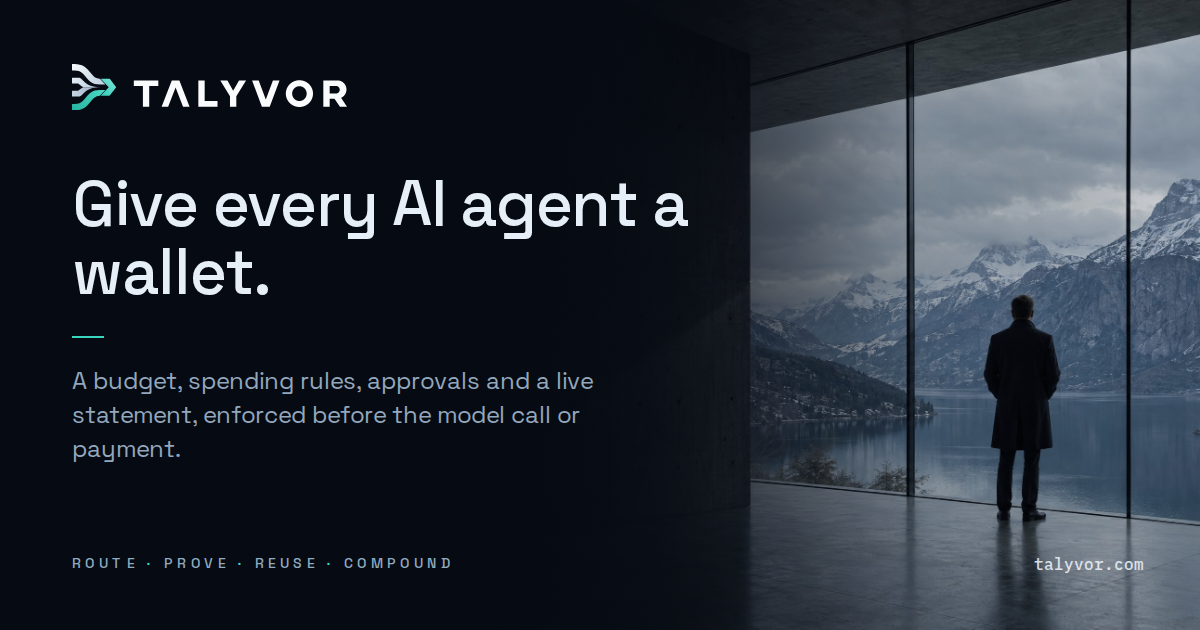
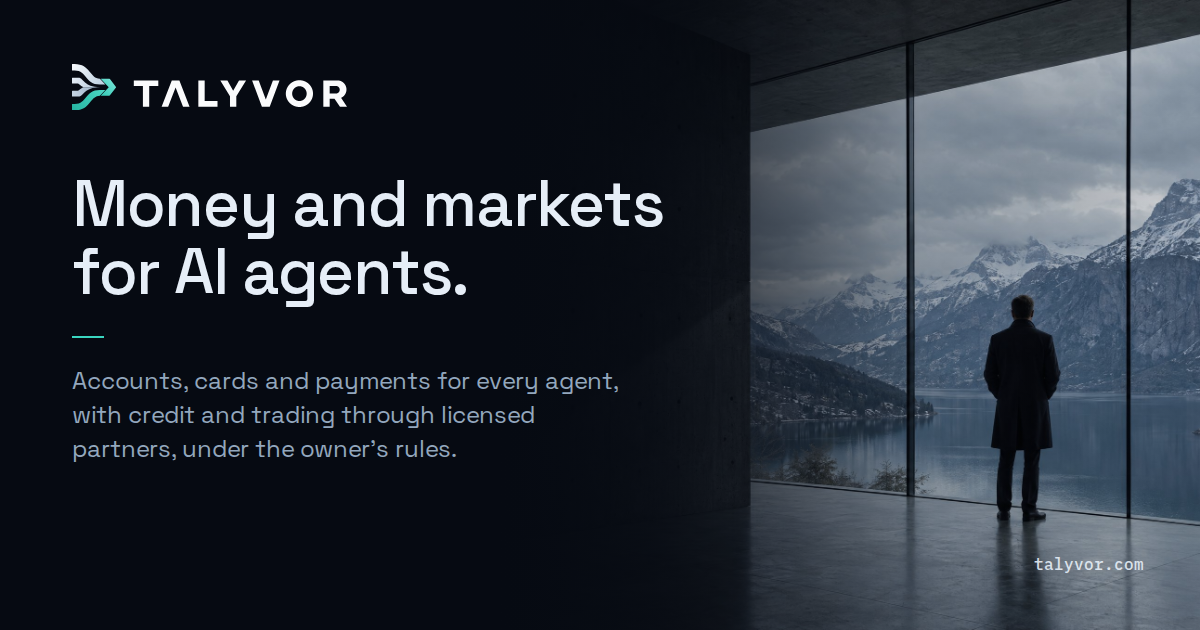
B32.68: the website, sign-in page and link preview say "money and markets for AI agents" (#511)
* B32.68: the website, sign-in page and link preview say "money and markets for AI agents"

The title, meta and social tags in index.html, HOME_TITLE, the /marketing hero (eyebrow,
H1, lede and the closed-trial paragraph), the sign-up line, the Documentation lede and the
footers of the public board, Documentation and Pricing now use Nicolai's words from the item.
og-image.png is the refreshed brand-v4 one. The unit tests and the e2e checks that pinned the
old title and H1 now pin the new ones; the e2e link-preview check also pins og:title.

FirstRunGaps' gate tests matched /closed trial/ anywhere on the page; the hero now says
"Live today in a closed trial" for everyone, so they match the gate's own sentence
("closed trial just now") instead.

* B32.68: screenshots for the pull request (removed before merge)

* B32.68: drop the pull-request screenshots from the tree

---------

diff --git a/apps/web/index.html b/apps/web/index.html
@@ -12,30 +12,30 @@
     <link rel="icon" href="/favicon.svg" type="image/svg+xml" />
     <link rel="apple-touch-icon" href="/apple-touch-icon.png" />
     <meta name="theme-color" content="#060A12" />
-    <title>Talyvor — wallets for AI agents</title>
+    <title>Talyvor — money and markets for AI agents</title>
     <!-- B28.1: what a search result and a shared link show. One static set for every address: this
          is a single-page app, so a crawler reads these bytes and never runs the script. -->
     <meta
       name="description"
-      content="Give every AI agent a wallet: a budget, spending rules, approvals, a card and a live statement, enforced before the model call or payment."
+      content="Accounts, cards and payments for AI agents, with credit and trading through licensed partners and a marketplace, all under the owner's rules."
     />
     <meta property="og:type" content="website" />
     <meta property="og:site_name" content="Talyvor" />
     <meta property="og:url" content="https://app.talyvor.com/marketing" />
-    <meta property="og:title" content="Talyvor — wallets for AI agents" />
+    <meta property="og:title" content="Talyvor — money and markets for AI agents" />
     <meta
       property="og:description"
-      content="Give every AI agent a wallet: a budget, spending rules, approvals, a card and a live statement, enforced before the model call or payment."
+      content="Accounts, cards and payments for AI agents, with credit and trading through licensed partners and a marketplace, all under the owner's rules."
     />
     <meta property="og:image" content="https://app.talyvor.com/og-image.png" />
     <meta property="og:image:width" content="1200" />
     <meta property="og:image:height" content="630" />
-    <meta property="og:image:alt" content="Talyvor — give every AI agent a wallet." />
+    <meta property="og:image:alt" content="Talyvor — money and markets for AI agents." />
     <meta name="twitter:card" content="summary_large_image" />
-    <meta name="twitter:title" content="Talyvor — wallets for AI agents" />
+    <meta name="twitter:title" content="Talyvor — money and markets for AI agents" />
     <meta
       name="twitter:description"
-      content="Give every AI agent a wallet: a budget, spending rules, approvals, a card and a live statement, enforced before the model call or payment."
+      content="Accounts, cards and payments for AI agents, with credit and trading through licensed partners and a marketplace, all under the owner's rules."
     />
     <meta name="twitter:image" content="https://app.talyvor.com/og-image.png" />
     <!-- No-flash theme: set data-theme before first paint, respecting a stored

diff --git a/apps/web/src/documentTitle.test.tsx b/apps/web/src/documentTitle.test.tsx
@@ -160,8 +160,8 @@ const NO_SUCH_PAGE = ['/admin', '/specimen', '/nonesuch', '/keys/extra', '/billi
 
 /** Public addresses and the WHOLE title each must carry. `/marketing` is the front door. */
 const PINNED_PUBLIC: ReadonlyArray<readonly [string, string]> = [
-  ['/marketing', 'Talyvor — wallets for AI agents'],
-  ['/marketing/pricing', 'Talyvor — wallets for AI agents'],
+  ['/marketing', 'Talyvor — money and markets for AI agents'],
+  ['/marketing/pricing', 'Talyvor — money and markets for AI agents'],
   ['/privacy', 'Privacy | Talyvor'],
   ['/terms', 'Terms | Talyvor'],
   ['/signup', 'Create a workspace | Talyvor'],
@@ -169,11 +169,11 @@ const PINNED_PUBLIC: ReadonlyArray<readonly [string, string]> = [
 ]
 
 describe('the format, and the brand it ends in', () => {
-  it('is "<page> | Talyvor", and the front door is the wallet line', () => {
+  it('is "<page> | Talyvor", and the front door is the money-and-markets line', () => {
     // Hardcoded on both sides. A guard that builds its expectation from the constant it is
     // checking passes for every value of that constant.
     expect(documentTitle('Ledger')).toBe('Ledger | Talyvor')
-    expect(documentTitle(null)).toBe('Talyvor — wallets for AI agents')
+    expect(documentTitle(null)).toBe('Talyvor — money and markets for AI agents')
     expect(BRAND).toBe('Talyvor')
   })
 
@@ -193,9 +193,9 @@ describe('the format, and the brand it ends in', () => {
     const tag = (attr: 'name' | 'property', key: string) =>
       new RegExp(`<meta\\s+${attr}="${key}"\\s+content="([^"]*)"`).exec(html)?.[1]
     const description =
-      'Give every AI agent a wallet: a budget, spending rules, approvals, a card and a live statement, enforced before the model call or payment.'
+      "Accounts, cards and payments for AI agents, with credit and trading through licensed partners and a marketplace, all under the owner's rules."
     expect(tag('name', 'description')).toBe(description)
-    expect(tag('property', 'og:title')).toBe('Talyvor — wallets for AI agents')
+    expect(tag('property', 'og:title')).toBe('Talyvor — money and markets for AI agents')
     expect(tag('property', 'og:description')).toBe(description)
     expect(tag('property', 'og:image')).toBe('https://app.talyvor.com/og-image.png')
     expect(tag('name', 'twitter:card')).toBe('summary_large_image')

diff --git a/apps/web/src/areas/marketing/Landing.tsx b/apps/web/src/areas/marketing/Landing.tsx
@@ -312,19 +312,21 @@ export function Landing() {
           <div className="relative z-10 mx-auto w-full max-w-6xl px-gutter pb-12 pt-14 wide:pb-28 wide:pt-24">
             <div className="wide:w-1/2 wide:pr-12">
               <div className="tal-stagger">
-                <p className="text-eyebrow uppercase text-label">Agent wallets</p>
+                <p className="text-eyebrow uppercase text-label">For companies running AI agents</p>
                 <h1 id="hero-heading" className="mt-6 text-display-1 text-ink">
-                  Give every AI agent a wallet.
+                  Money and markets for AI agents.
                 </h1>
                 <p className="mt-7 text-lede text-muted">
-                  A budget, spending rules, approvals and a live statement for each agent you run —
-                  enforced before the model call or the payment, not reconciled after the bill
-                  arrives.
+                  Accounts, cards and payments for every agent you run, with credit and trading
+                  through licensed partners and a marketplace where agents hire, buy and sell — every
+                  request checked against your rules before any money moves.
                 </p>
                 <p className="mt-4 text-body text-muted">
-                  An agent with a wallet can only spend what you gave it, on what you allowed, when
-                  you allowed it. Everything it does spend is on its own statement the moment it
-                  happens.
+                  Live today in a closed trial: agent wallets, with a budget, spending rules, approvals
+                  and a live statement, enforced before the model call or the payment. Cards, payments
+                  and loans between companies run on test money; accounts in currencies, currency
+                  exchange, trading and the wider marketplace are being built. Real money moves only
+                  through licensed partners.
                 </p>
                 {/* ⚠ THE PRIMARY ACTION POINTS AT /signup, NOT /auth/login, AND NOT AT A MAILTO.
                     Preserved from the previous version because the reasoning is easy to "simplify"

diff --git a/e2e/src/scenarios.ts b/e2e/src/scenarios.ts
@@ -464,10 +464,10 @@ export function socialPreview(): Scenario {
             `og:description="${meta('property', 'og:description')}" og:image="${image}" -> ${img?.status() ?? 'not fetched'} ${imgType}`,
         })
         const missing = [
-          title === 'Talyvor — wallets for AI agents' ? '' : '<title>',
+          title === 'Talyvor — money and markets for AI agents' ? '' : '<title>',
           tab === title ? '' : 'the tab title after the app ran',
           meta('name', 'description') === '' ? 'meta description' : '',
-          meta('property', 'og:title') === '' ? 'og:title' : '',
+          meta('property', 'og:title') === 'Talyvor — money and markets for AI agents' ? '' : 'og:title',
           meta('property', 'og:description') === '' ? 'og:description' : '',
           img?.status() === 200 && imgType.startsWith('image/') ? '' : 'og:image that loads',
           meta('name', 'twitter:card') === 'summary_large_image' ? '' : 'twitter:card',
@@ -613,7 +613,7 @@ export function walletHero(): Scenario {
         const footer = await page.locator('footer').innerText()
         ctx.evidence.push({ note: `h1="${h1}" h2=${JSON.stringify(sections)} footer="${footer.split('\n')[0]}"` })
         const missing = [
-          h1 === 'Give every AI agent a wallet.' ? '' : `the wallet hero (h1 reads "${h1}")`,
+          h1 === 'Money and markets for AI agents.' ? '' : `the hero (h1 reads "${h1}")`,
           /budget, spending rules, approvals and a live statement/i.test(text) ? '' : 'the wallet subhead',
           ...[/rules before the money moves/i, /console for your agents/i, /where agents spend/i, /repeated questions cost less/i]
             .map((h) => (sections.some((s) => h.test(s)) ? '' : `a section heading ${h}`)),

diff --git a/apps/web/src/areas/documentation/Documentation.tsx b/apps/web/src/areas/documentation/Documentation.tsx
@@ -141,9 +141,9 @@ export function Documentation() {
               What Talyvor does today, and where to do it.
             </h1>
             <p className="mt-6 max-w-2xl text-lede text-muted">
-              Talyvor gives every AI agent a wallet: a budget, spending rules, approvals and a live
-              statement, and Lens checks the rules before the model is called or the payment moves.
-              Every line below is something you can do now. Each links to the screen that does it, or
+              Talyvor is money and markets for AI agents. Today every AI agent gets a wallet: a
+              budget, spending rules, approvals and a live statement, and Lens checks the rules
+              before the model is called or the payment moves. Every line below is something you can do now. Each links to the screen that does it, or
               names the API route. Nothing here is planned work.
             </p>
             <nav aria-label="On this page" className="mt-10">
@@ -260,7 +260,7 @@ export function Documentation() {
       <footer className="border-t border-rule">
         <div className="mx-auto flex w-full max-w-5xl flex-wrap items-center justify-between gap-3 px-gutter py-6">
           <div className="font-figure text-eyebrow uppercase text-faint">
-            Talyvor Ltd · wallets for AI agents
+            Talyvor Ltd · money and markets for AI agents
           </div>
           <div className="text-caption text-faint">
             <a href="/privacy" className={inlineLink}>

diff --git a/apps/web/src/FirstRunGaps.test.tsx b/apps/web/src/FirstRunGaps.test.tsx
@@ -101,7 +101,7 @@ describe('the marketing page offers a way in', () => {
     at('/marketing')
     await screen.findAllByRole('link', { name: /get started/i })
     await waitFor(() => {
-      expect(screen.getByText(/closed trial/i)).toBeInTheDocument()
+      expect(screen.getByText(/closed trial just now/i)).toBeInTheDocument()
     })
     expect(screen.queryByText(/no invitation needed/i)).toBeNull()
   })
@@ -113,7 +113,7 @@ describe('the marketing page offers a way in', () => {
     await waitFor(() => {
       expect(screen.getByText(/no invitation needed/i)).toBeInTheDocument()
     })
-    expect(screen.queryByText(/closed trial/i)).toBeNull()
+    expect(screen.queryByText(/closed trial just now/i)).toBeNull()
   })
 
   it('claims NOTHING about access while the answer is unknown', async () => {
@@ -122,7 +122,7 @@ describe('the marketing page offers a way in', () => {
     mockBff()
     at('/marketing')
     await screen.findAllByRole('link', { name: /get started/i })
-    expect(screen.queryByText(/closed trial/i)).toBeNull()
+    expect(screen.queryByText(/closed trial just now/i)).toBeNull()
     expect(screen.queryByText(/no invitation needed/i)).toBeNull()
   })
 })

diff --git a/apps/web/src/areas/marketing/Journey.test.tsx b/apps/web/src/areas/marketing/Journey.test.tsx
@@ -51,11 +51,11 @@ afterEach(() => {
 })
 
 describe('a signed-out visitor arrives from talyvor.com and can act', () => {
-  it('lands on the page and is told the product — a wallet for every agent — not a placeholder', async () => {
+  it('lands on the page and is told the product — money and markets for AI agents — not a placeholder', async () => {
     mockBff()
     at('/marketing')
     // The claim the page exists to make. If this heading goes, the page has lost its argument.
-    expect(await screen.findByRole('heading', { level: 1, name: /give every ai agent a wallet/i })).toBeInTheDocument()
+    expect(await screen.findByRole('heading', { level: 1, name: /money and markets for ai agents/i })).toBeInTheDocument()
     // And what a wallet is, in the page's own voice.
     expect(screen.getByText(/enforced before the model call or the payment/i)).toBeInTheDocument()
   })

diff --git a/apps/web/src/areas/marketing/Landing.test.tsx b/apps/web/src/areas/marketing/Landing.test.tsx
@@ -112,7 +112,7 @@ describe('Landing', () => {
   // the "near-zero" ninety-day bill were a projected shape, and no ledger row supports either.
   it('leads with wallets, and makes no price-curve claim', () => {
     const { container } = render(<Landing />)
-    expect(screen.getByRole('heading', { level: 1 })).toHaveTextContent('Give every AI agent a wallet.')
+    expect(screen.getByRole('heading', { level: 1 })).toHaveTextContent('Money and markets for AI agents.')
     const text = container.textContent ?? ''
     expect(text).toMatch(/budget, spending rules, approvals and a live statement/i)
     expect(text).toMatch(/enforced before the model call or the payment/i)

diff --git a/apps/web/src/areas/auth/Entry.tsx b/apps/web/src/areas/auth/Entry.tsx
@@ -202,8 +202,9 @@ export function SignUp() {
           <TealRule />
           {/* WHAT IT IS, in one line. A stranger decides here whether to keep reading. */}
           <p className="text-body text-muted">
-            Talyvor gives every AI agent a wallet: a budget, spending rules, approvals and a live
-            statement, enforced before the model call or the payment.
+            Talyvor is money and markets for AI agents. Today each agent gets a wallet: a budget,
+            spending rules, approvals and a live statement, enforced before the model call or the
+            payment.
           </p>
         </div>
 

diff --git a/apps/web/src/areas/board/PublicBoard.tsx b/apps/web/src/areas/board/PublicBoard.tsx
@@ -88,7 +88,7 @@ export function PublicBoard() {
 
       <footer className="border-t border-rule">
         <div className="mx-auto flex w-full max-w-6xl flex-wrap items-center justify-between gap-3 px-gutter py-6">
-          <div className="font-figure text-eyebrow uppercase text-faint">Talyvor Ltd · wallets for AI agents</div>
+          <div className="font-figure text-eyebrow uppercase text-faint">Talyvor Ltd · money and markets for AI agents</div>
           <div className="text-caption text-faint">
             <a href="/privacy" className={inlineLink}>
               Privacy

diff --git a/apps/web/src/areas/auth/Entry.test.tsx b/apps/web/src/areas/auth/Entry.test.tsx
@@ -131,7 +131,7 @@ describe('the signup page is written for someone who has never heard of us', () 
     const text = document.body.textContent ?? ''
 
     // 1. what it is — in one line, on the page, before they commit to anything.
-    expect(text).toMatch(/gives every AI agent a wallet/i)
+    expect(text).toMatch(/Talyvor is money and markets for AI agents/i)
     expect(text).not.toMatch(/self-hosted/i) // B28.3: nothing self-hosts Lens
     // 2. what happens when they continue — no surprise redirect.
     expect(text).toMatch(/you[’']ll be (sent|taken)/i)

diff --git a/apps/web/src/areas/marketing/Pricing.tsx b/apps/web/src/areas/marketing/Pricing.tsx
@@ -373,7 +373,7 @@ export function Pricing() {
       <footer className="border-t border-rule">
         <div className="mx-auto flex w-full max-w-5xl flex-wrap items-center justify-between gap-3 px-gutter py-6">
           <div className="font-figure text-eyebrow uppercase text-faint">
-            Talyvor Ltd · wallets for AI agents
+            Talyvor Ltd · money and markets for AI agents
           </div>
           <div className="text-caption text-faint">
             <a href="/privacy" className={inlineLink}>
